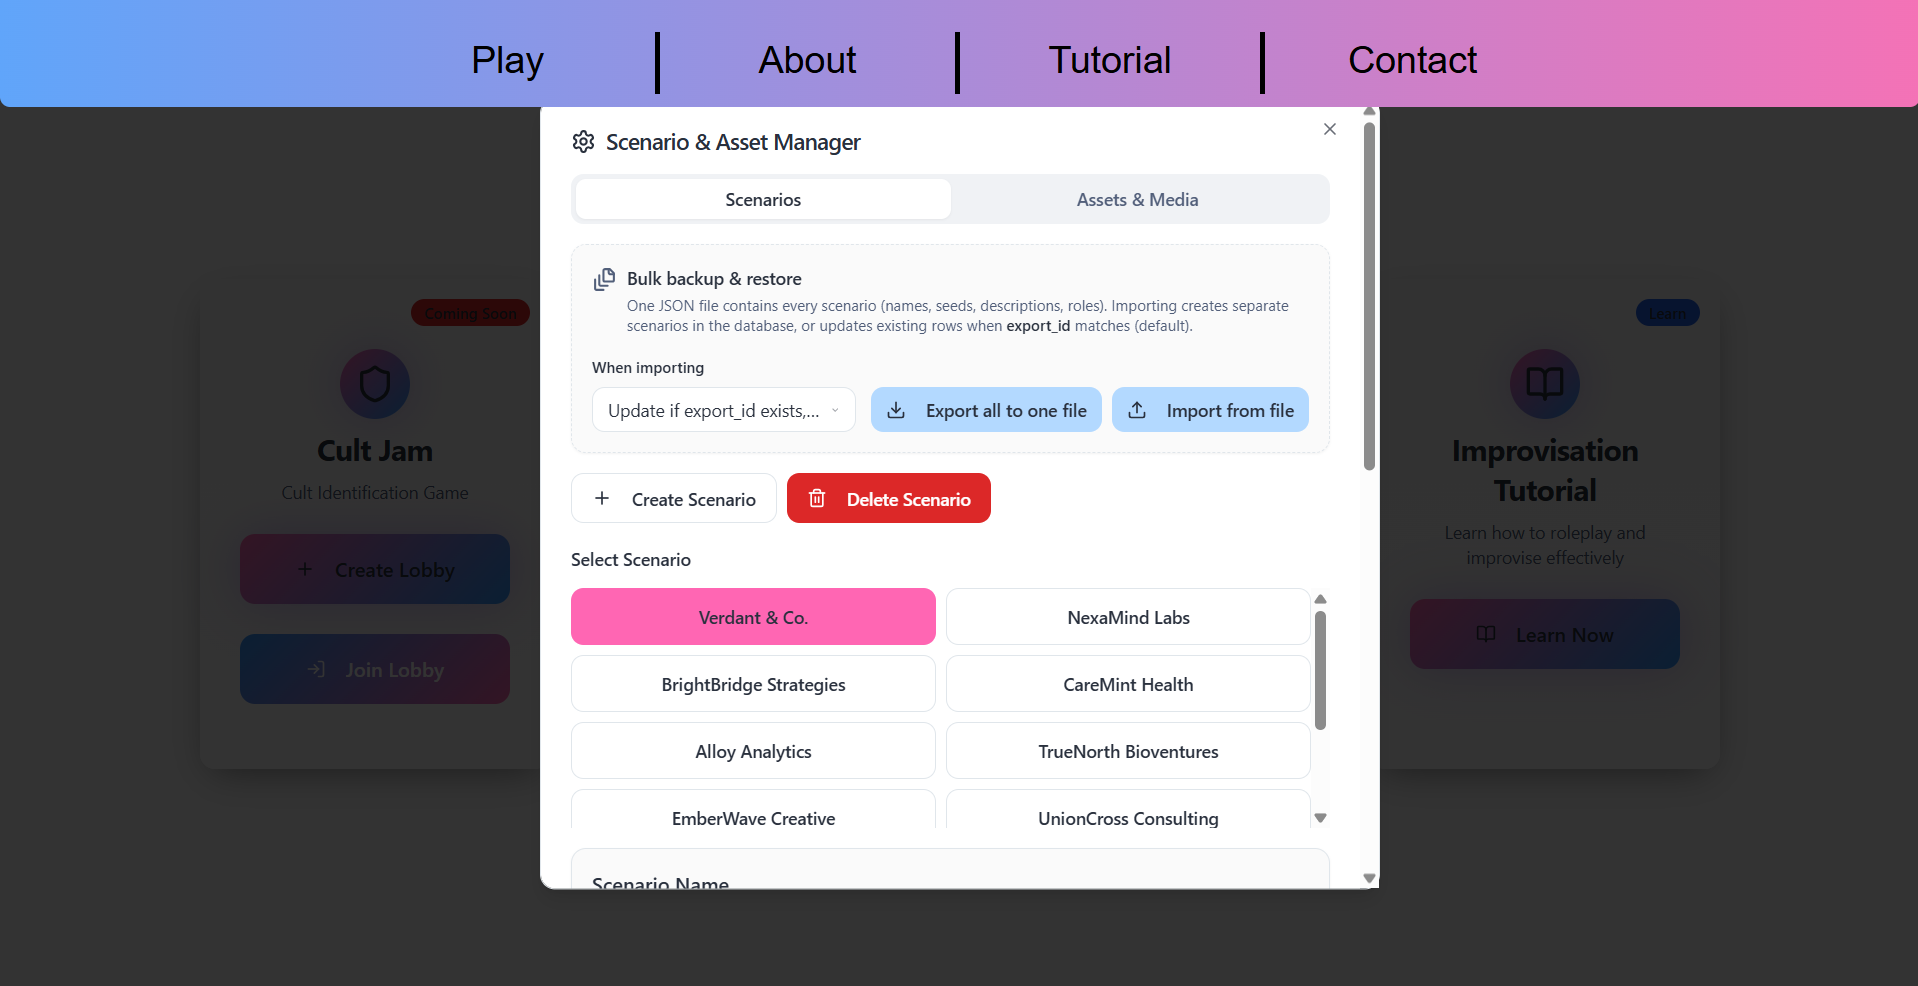
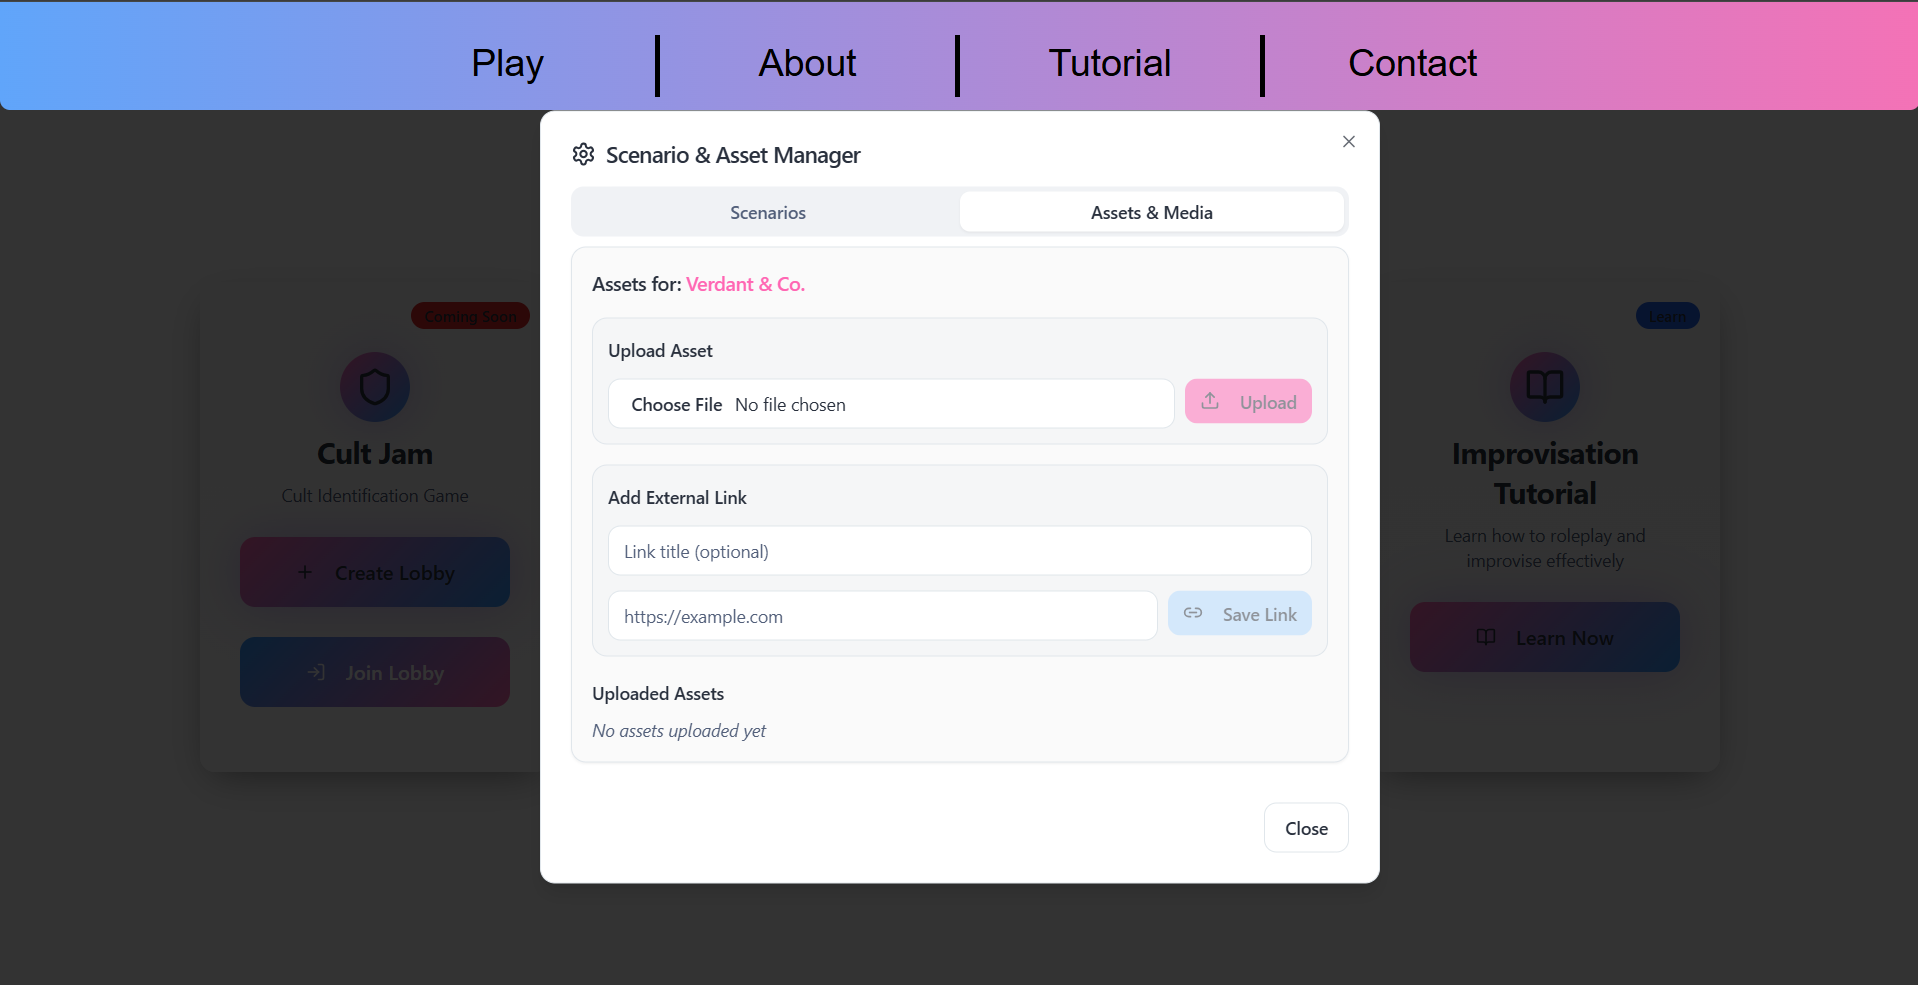
Finish How to play page

diff --git a/src/pages/AboutPage.jsx b/src/pages/AboutPage.jsx
@@ -13,6 +13,7 @@ import { faChevronDown } from "@fortawesome/free-solid-svg-icons";
 
 import homepageImage from "../images/homepage.png";
 import assetmanagerImage from "../images/assetmanager.png";
+import scenariomanagerImage from "../images/scenariomanager.png";
 import createlobbyImage from "../images/createlobby.png";
 import hostlobbyImage from "../images/hostlobby.png";
 import lobbysettingsImage from "../images/lobbysettings.png";
@@ -556,6 +557,23 @@ export default function About() {
 
                           <h3 style={{ textAlign: "center" }}> Asset Manager </h3>
 
+                          <p className="text-muted-foreground" style={{ marginBottom: "20px" }}>
+                              You can hover over the box for any available gamemode to reveal a settings icon. Clicking into it will bring up the asset manager. This is one of the most important pages for making
+                              the most out of your experience with this app. The first of the two pages is the scenario manager. Here, you can see a list of all current scenarios available to play under as well as add 
+                              any new scenarios you wish to have. You can create them either individually and manually or by submitting a file to add many at once. 
+                          </p>
+
+                          <img
+                              src={scenariomanagerImage}
+                              alt="Homepage"
+                              style={{ width: "100%", borderRadius: "10px" }}
+                          />
+
+                          <p className="text-muted-foreground" style={{ marginBottom: "20px" }}>
+                              The second of the two tabs is the asset manager page. Here, you can upload assets of a wide variety of file types as well as links to be viewed during the roleplay phase. Below, you
+                                can see a list of all files that have been uploaded so far. The assets are tied to specific scenarios, so be mindful of where you are uploading the files when using the asset manager.
+                          </p>
+
                           <img
                               src={assetmanagerImage}
                               alt="Homepage"
@@ -733,17 +751,33 @@ export default function About() {
                               {HOW_STEPS[selectedHowStep]}
                           </h2>
 
+                          <p className="text-muted-foreground" style={{ marginBottom: "20px" }}>
+                              The roleplay phase is where the main bulk of the game will occur. Players will need to act out their roles in the given time limit in accordance to their role information as 
+                              well as the scenario description on the left hand side of the screen. Please refer to the Tutorial section from the top banner and the main screen for more information on how to get
+                              the most out of your roleplay experience
+                          </p>
+
                           <img
                               src={roleplayphaseImage}
                               alt="Homepage"
                               style={{ width: "100%", borderRadius: "10px" }}
                           />
 
+                          <p className="text-muted-foreground" style={{ marginBottom: "20px" }}>
+                              No need to worry if you forget any of the information about your role from the Role Distribution Phase. All of it can be viewed whenever you need by clicking the "Role Info" button
+                              above the asset display box. 
+                          </p>
+
                           <img
                               src={roleplayinfoImage}
                               alt="Homepage"
                               style={{ width: "100%", borderRadius: "10px" }}
                           />
+
+                          <p className="text-muted-foreground" style={{ marginBottom: "20px" }}>
+                              If you want to display any images, video, or presentations to the other players to aid in the roleplay process, open the asset manager with the "Select Asset" button.
+                              This opens a menu where you can display any files or links that have been previously uploaded to the asset manager in the home menu
+                          </p>
 
                           <img
                               src={roleplayassetsImage}
@@ -761,6 +795,11 @@ export default function About() {
 
                           <h3 style={{ textAlign: "center" }}> Role Guessing </h3>
 
+                          <p className="text-muted-foreground" style={{ marginBottom: "20px" }}>
+                              The guessing phase is the final phase of the game. After the timer of the roleplay phase ends, you must predict what role each of the other players was acting as. Each player in the
+                              lobby will take turns making their guesses before passing off to the next player. The more correct guesses that you make, the higher your score will be at the end of the game. 
+                          </p>
+
                           <img
                               src={roleguessImage}
                               alt="Homepage"
@@ -768,6 +807,12 @@ export default function About() {
                           />
 
                           <h3 style={{ textAlign: "center" }}> Final Results </h3>
+
+                          <p className="text-muted-foreground" style={{ marginBottom: "20px" }}>
+                              The final scores are given to each player based on both the amount of correct guesses they make in the guessing phase and a score given to them by an LLM grader. In the box displaying
+                              your score, you will be able to see the correct guesses you made of other players role as well as a short summary of the LLM grader's score, showing where you succeeded and failed in your 
+                              roleplay. After seeing this information, you can either return to the lobby or back to the home page of the application.
+                          </p>
 
                           <img
                               src={resultsImage}
